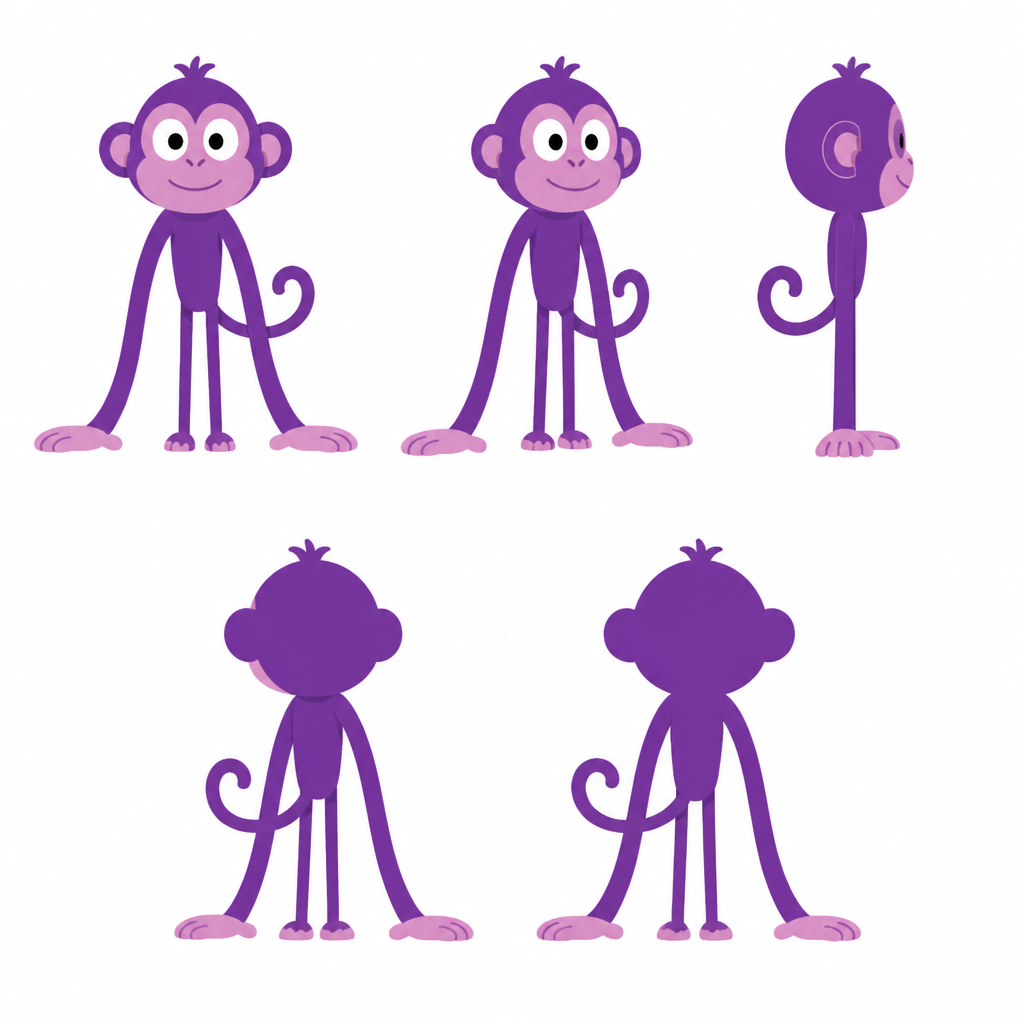
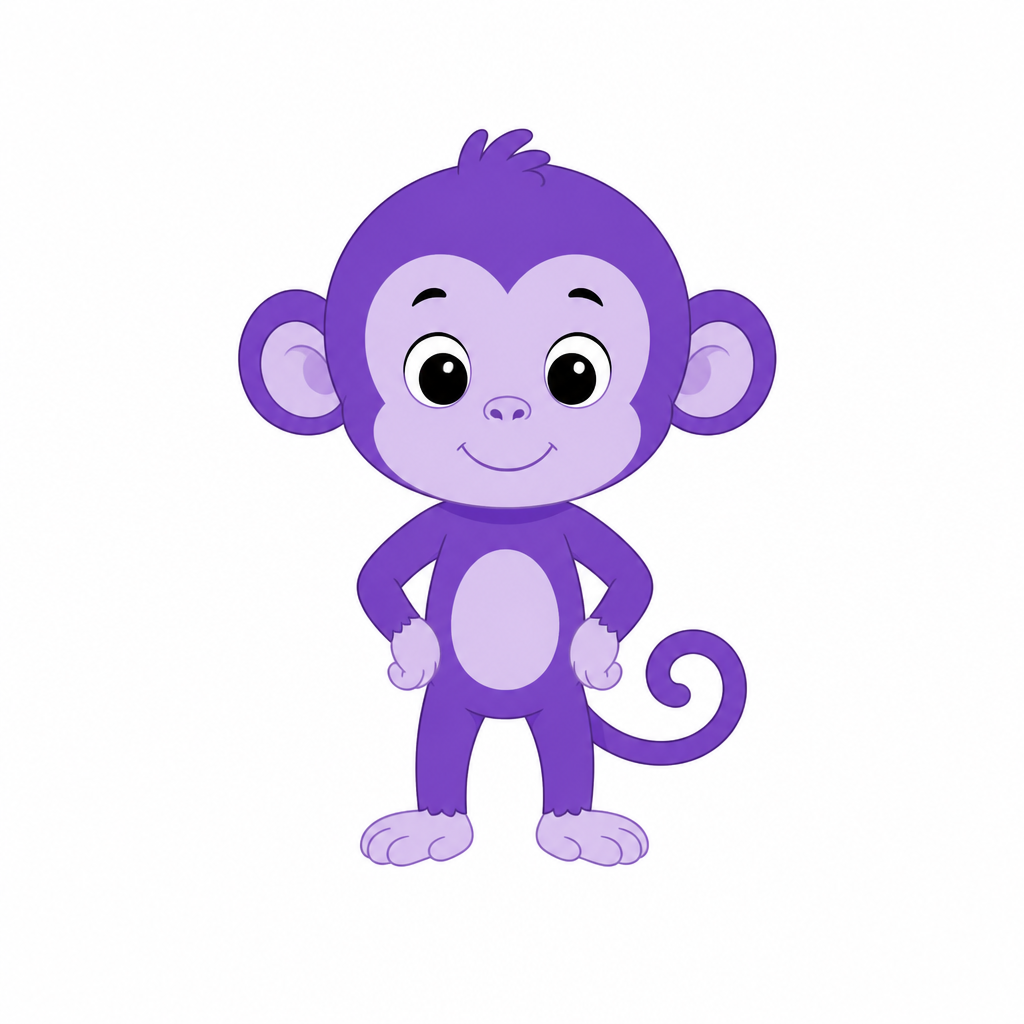
Fix monkey extra-limb errors: new ref + pose rules (jungle2)
- Replace monkey.png with clean 4-limb reference (normal arm length)
- Add JUNGLE_CAST_MONKEY_POSE_RULE to all prompts with monkey
- Bump bundle jungle2, cache v21/v75
- Regenerate will/as/who/why/see samples

diff --git a/src/data/jungle-cast-samples.ts b/src/data/jungle-cast-samples.ts
@@ -16,10 +16,13 @@ export const JUNGLE_CAST_NAME = "Jungle Jokers";
 /** Immutable silhouette spec — must match jungle-jokers-lineup.png exactly. */
 export const JUNGLE_CAST_SHAPE_LOCK =
   "CRITICAL — copy EXACT silhouettes from attached per-character reference PNGs and lineup. Body proportions are LOCKED; NEVER slim down, fatten up, shorten arms, or resize heads. ONLY change: facial expression and optional clothing/accessories.\n" +
-  "(1) MONKEY: purple body #8B5CF6, lavender face/ears/palms #C4B5FD; tiny rectangular torso; arms ALWAYS extremely long thin tubes reaching the ground (never short arms); small curly tail.\n" +
+  "(1) MONKEY: purple body #8B5CF6, lavender face/ears/palms #C4B5FD; small round head; tiny body; normal-length arms (hands at waist/hip height — NOT dragging on floor, NOT used as extra legs); exactly TWO arms from shoulders + TWO legs from hips + one curly tail; front view preferred.\n" +
   "(2) ELEPHANT: pink #F472B6; head ALWAYS one giant perfect circle (40% of character height); huge flat semicircle ears; body and legs ALWAYS pencil-thin stick lines (never chubby body, never thick legs, never round fat torso); trunk thin tube curving up with small heart tip.\n" +
   "(3) CROCODILE: lime green #84CC16; body ALWAYS one horizontal rectangle log (width 3x height); jagged dorsal scales; four stubby short legs (never long legs); one blunt white tooth.\n" +
   "(4) TIGER: orange ball #F97316; body ALWAYS one sphere (head+body merged chibi ball); bold dark zigzag stripes; cream muzzle patch; legs ALWAYS tiny stubs (never long legs); small striped tail.";
+
+export const JUNGLE_CAST_MONKEY_POSE_RULE =
+  "MONKEY ANATOMY (critical): Purple monkey has EXACTLY two arms and two legs — never three arms, never four legs, never extra hands. Front or 3/4 view. Only ONE hand action at a time; other arm rests at side or on hip. Safe poses: hands-on-hips, one arm pointing (other at side), sitting with arms on lap/desk. Do NOT draw long arms touching floor as extra supports.";
 
 export const JUNGLE_CAST_ANATOMY_RULES =
   "ANATOMY & PROPS: Monkey has EXACTLY two arms and two legs (four limbs total) — never three arms, never extra limbs. Elephant: four stick legs + trunk (trunk is NOT a third arm). Tiger: two stub arms two stub legs. Crocodile: four stub legs. ALL objects must be physically grounded or held — candy jars, puzzles, props resting on table/floor OR held by a visible hand/arm. NO floating objects in mid-air.";
@@ -70,9 +73,9 @@ export const JUNGLE_CAST_EXPRESSION_SAMPLES: Readonly<
     label: "Suy nghĩ — tò mò",
     cast: ["monkey"],
     scene:
-      "ONLY monkey in bright classroom. Monkey sits on chair behind desk — puzzle flat on desk surface, blocks on desk. One hand touches chin, OTHER arm hangs down long to floor. Curved hook shapes near head. All props on desk, nothing floating.",
+      "ONLY monkey in bright classroom. Monkey sits on chair at desk — puzzle flat on desk, blocks on desk. One hand touches chin thinking, other hand resting flat on desk. Curved hook shapes near head. All props on desk.",
     expressions:
-      "Monkey: curious thinking, one eyebrow up. Exactly two arms: one on chin, one hanging down.",
+      "Monkey: curious thinking, one eyebrow up. Exactly two arms visible: one on chin, one on desk.",
     outfits: "Monkey: reading glasses on forehead.",
   },
   love: {

diff --git a/src/data/jungle-cast-word-image-prompts.ts b/src/data/jungle-cast-word-image-prompts.ts
@@ -2,6 +2,7 @@
 import {
   JUNGLE_CAST_DESIGN_ONLY,
   JUNGLE_CAST_EXPRESSION_SAMPLES,
+  JUNGLE_CAST_MONKEY_POSE_RULE,
 } from "@/data/jungle-cast-samples";
 import {
   getJungleCastReferencePaths,
@@ -992,13 +993,19 @@ export function buildJungleCastWordImagePrompt(word: string): string | null {
   if (approved) {
     const castNote = `Characters (${approved.cast.length}): ${approved.cast.join(", ")}.`;
     const outfitNote = approved.outfits ? ` OUTFITS: ${approved.outfits}` : "";
-    return `${JUNGLE_CAST_DESIGN_ONLY} ${castNote} ${JUNGLE_CAST_SHAPE_REMINDER} Word "${key}": ${approved.scene} EXPRESSIONS: ${approved.expressions}.${outfitNote}`;
+    const monkeyNote = approved.cast.includes("monkey")
+      ? ` ${JUNGLE_CAST_MONKEY_POSE_RULE}`
+      : "";
+    return `${JUNGLE_CAST_DESIGN_ONLY} ${castNote} ${JUNGLE_CAST_SHAPE_REMINDER}${monkeyNote} Word "${key}": ${approved.scene} EXPRESSIONS: ${approved.expressions}.${outfitNote}`;
   }
   const entry = JUNGLE_WORD_IMAGE_ENTRIES[key];
   if (!entry) return null;
   const castNote = `Characters (${entry.cast.length}): ${entry.cast.join(", ")}.`;
   const outfitNote = entry.outfits ? ` OUTFITS: ${entry.outfits}` : "";
-  return `${JUNGLE_CAST_DESIGN_ONLY} ${castNote} ${JUNGLE_CAST_SHAPE_REMINDER} Word "${key}": ${entry.scene} EXPRESSIONS: ${entry.expressions}.${outfitNote}`;
+  const monkeyNote = entry.cast.includes("monkey")
+    ? ` ${JUNGLE_CAST_MONKEY_POSE_RULE}`
+    : "";
+  return `${JUNGLE_CAST_DESIGN_ONLY} ${castNote} ${JUNGLE_CAST_SHAPE_REMINDER}${monkeyNote} Word "${key}": ${entry.scene} EXPRESSIONS: ${entry.expressions}.${outfitNote}`;
 }
 
 export function getJungleCastWordReferences(word: string): string[] | null {

diff --git a/src/lib/word-image-cache.ts b/src/lib/word-image-cache.ts
@@ -1,7 +1,7 @@
 import { hasAcceptableWordImage, shouldRefreshImageUrl } from "@/lib/unsplash";
 
 /** Bump when function-word fw=1 validation rules change. */
-const STORAGE_KEY = "word-image-url-cache-v20";
+const STORAGE_KEY = "word-image-url-cache-v21";
 const MAX_ENTRIES = 500;
 
 const cache = new Map<string, string>();
@@ -20,6 +20,7 @@ function hydrateFromStorage(): void {
     sessionStorage.removeItem("word-image-url-cache-v17");
     sessionStorage.removeItem("word-image-url-cache-v18");
     sessionStorage.removeItem("word-image-url-cache-v19");
+    sessionStorage.removeItem("word-image-url-cache-v20");
     const raw = sessionStorage.getItem(STORAGE_KEY);
     if (!raw) return;
     const parsed = JSON.parse(raw) as Record<string, string>;

diff --git a/src/lib/discover-word-cache.ts b/src/lib/discover-word-cache.ts
@@ -4,7 +4,7 @@ import { parseExamples } from "@/lib/parse-examples";
 import { containsForeignScript } from "@/lib/sanitize-vi";
 
 /** Bump when Gemini/Unsplash pipeline or image quality rules change. */
-export const DISCOVER_WORD_CACHE_VERSION = 74;
+export const DISCOVER_WORD_CACHE_VERSION = 75;
 
 const STORAGE_KEY = `discover-word-cache-v${DISCOVER_WORD_CACHE_VERSION}`;
 
@@ -69,6 +69,7 @@ const LEGACY_STORAGE_KEYS = [
   "discover-word-cache-v68",
   "discover-word-cache-v72",
   "discover-word-cache-v73",
+  "discover-word-cache-v74",
 ];
 
 const MAX_ENTRIES = 250;

diff --git a/src/lib/cast-word-images.ts b/src/lib/cast-word-images.ts
@@ -15,7 +15,7 @@ export {
 } from "@/data/jungle-cast-word-image-prompts";
 
 /** Bump when replacing bundled cast JPEGs in public/word-images. */
-export const CAST_WORD_IMAGE_BUNDLE = "jungle1";
+export const CAST_WORD_IMAGE_BUNDLE = "jungle2";
 export const CAST_WORD_IMAGE_TOP_RANK = 100;
 
 const CAST_WORDS = new Set(
